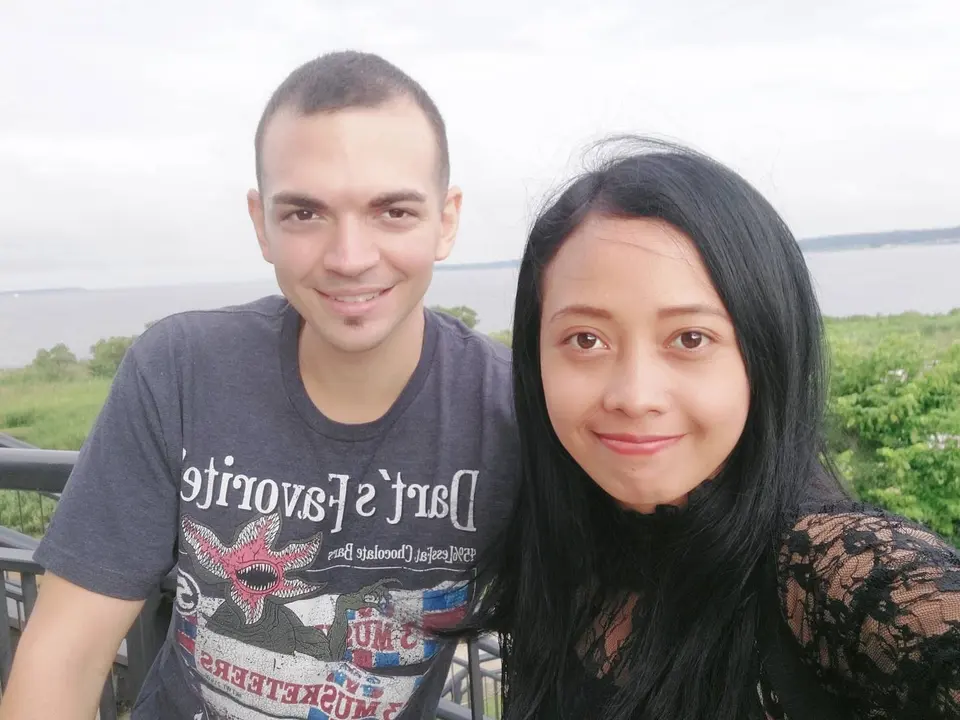
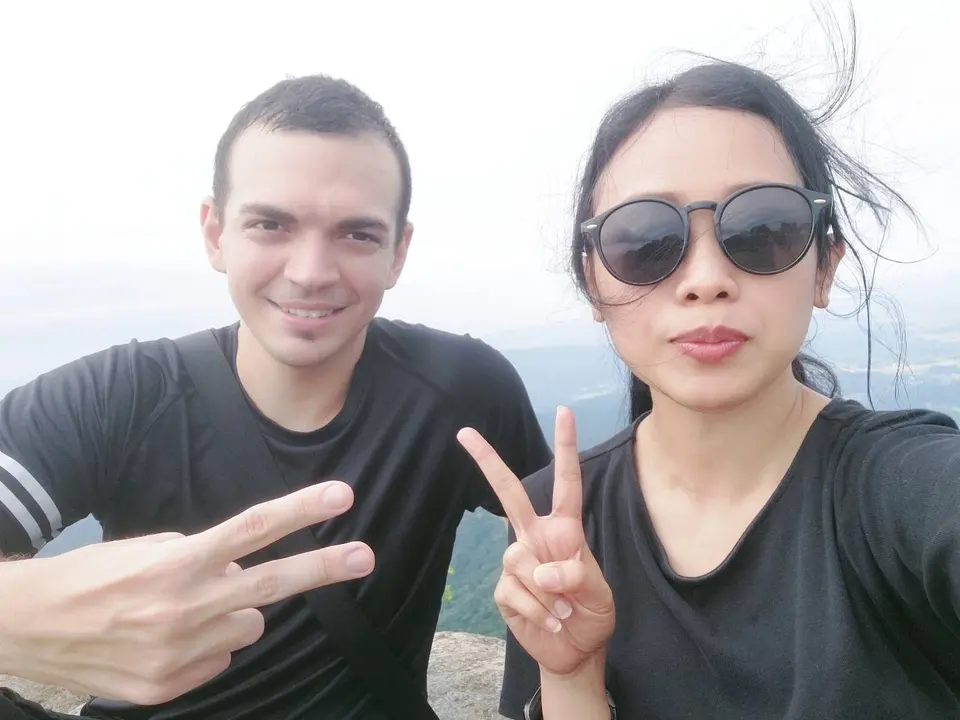
Deploy August 21 opening photo

diff --git a/index.html b/index.html
@@ -10,7 +10,7 @@
       content="A birthday journey celebrating Wasiatus Sadiyah, created with love by Nahuel."
     />
     <title>For Wasiatus, with love</title>
-    <script type="module" crossorigin src="/assets/index-Dh7mTDvX.js"></script>
+    <script type="module" crossorigin src="/assets/index-B0Du5da_.js"></script>
     <link rel="stylesheet" crossorigin href="/assets/index-DaLbV-kR.css">
   </head>
   <body>